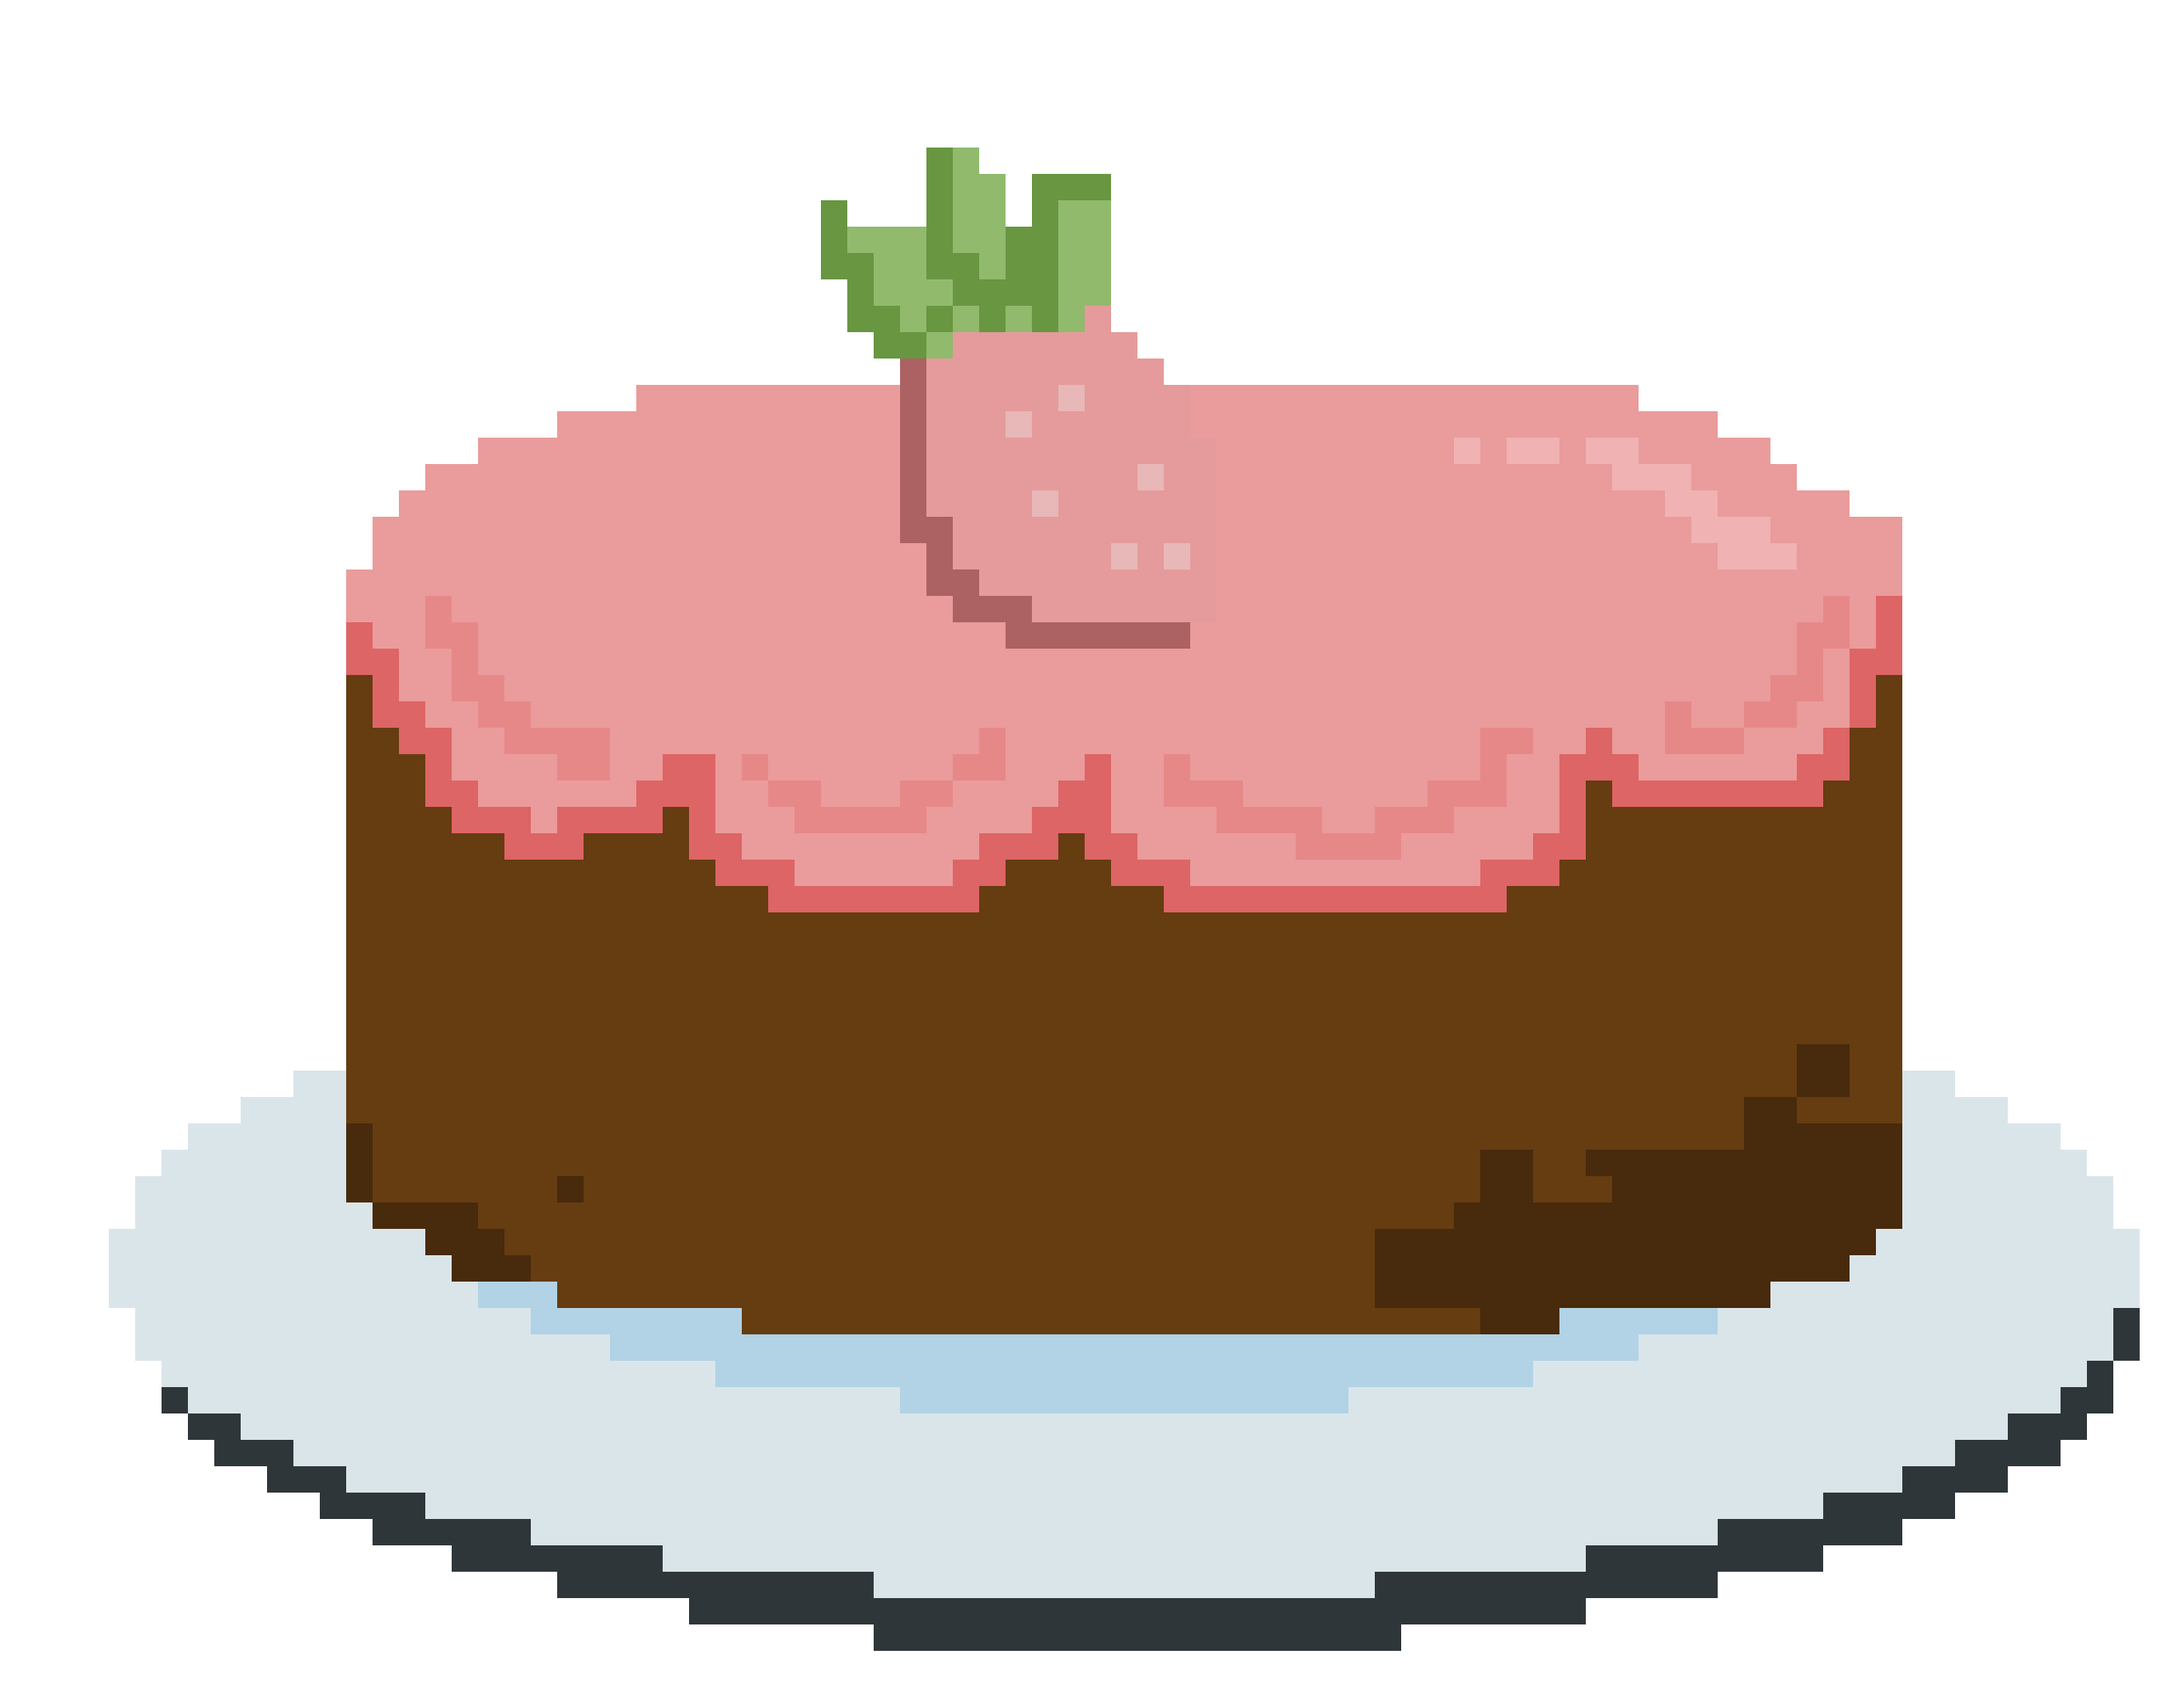
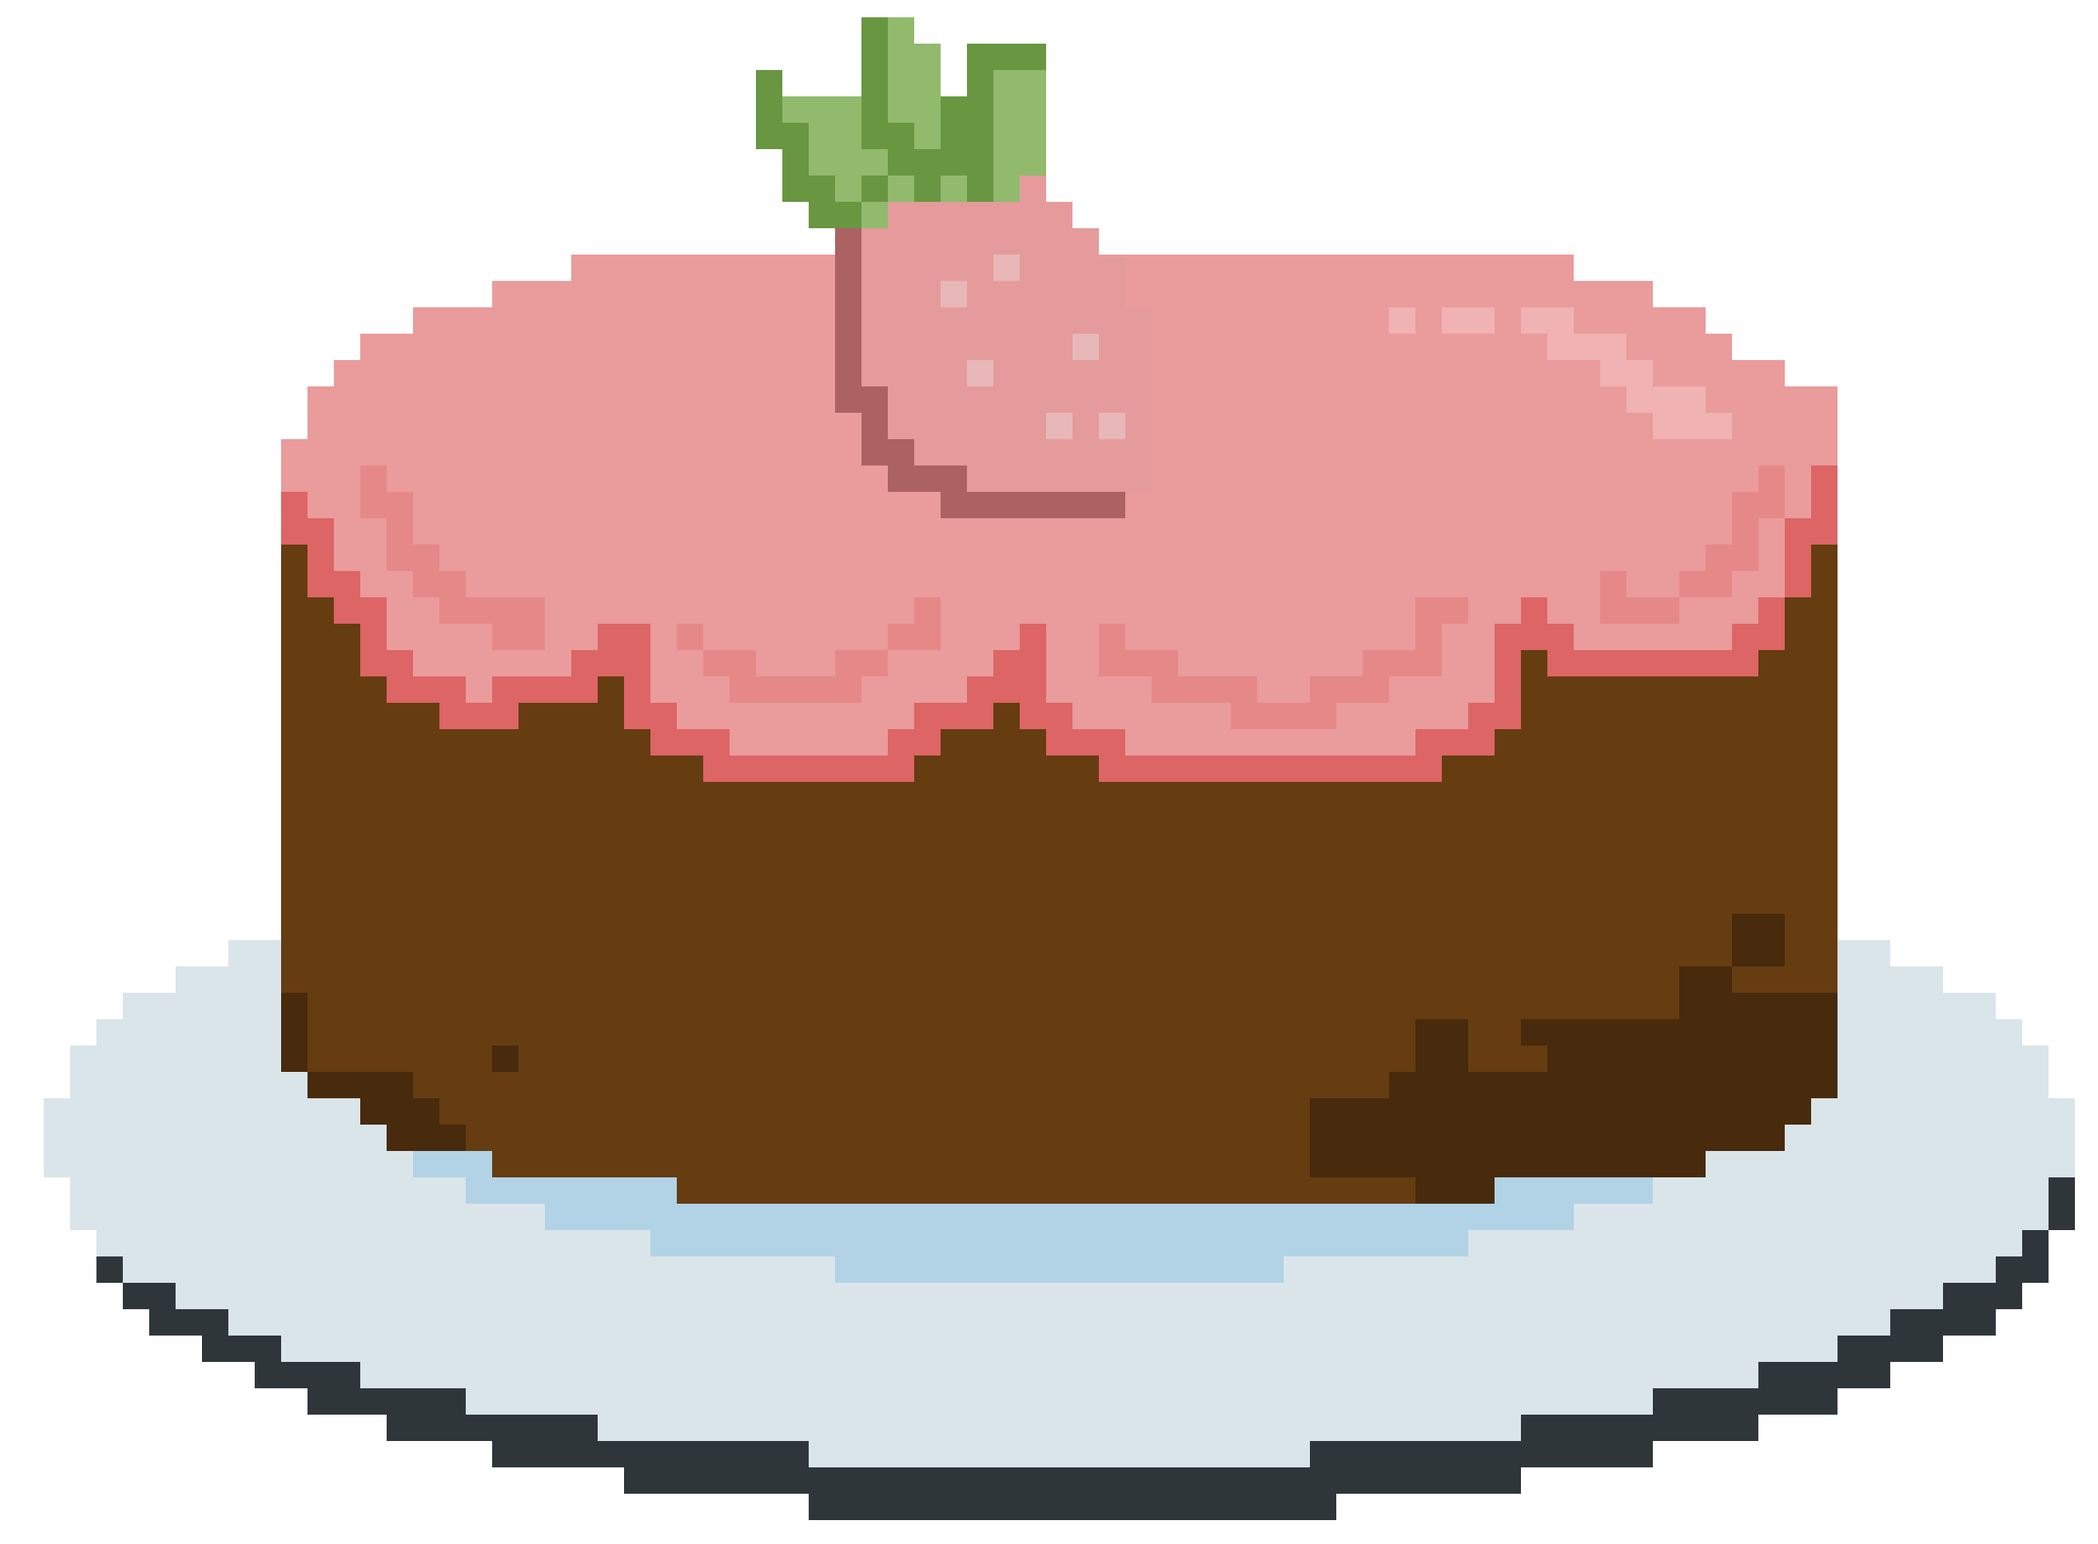
strawberry and candles

Changed region(s): [[0.0, 0.0, 0.9623, 0.9904], [0.9312, 0.6809, 0.9933, 0.8356], [0.9002, 0.8666, 0.9312, 0.8975]]

diff --git a/src/app.js b/src/app.js
@@ -172,8 +172,15 @@ controls.addEventListener('dragend', function (event) {
             console.log(event.object.parent.name);
             scene.state.updateList[0].children[0].scale.set(WIDTH * 0.1, HEIGHT * 0.1, 1);
 
-            if (event.object.parent.name == "candles" || event.object.parent.name == "strawberry") {
-                scene.state.updateList[0].children[0].scale.set(WIDTH*0.1, HEIGHT*0.1 + HEIGHT*0.018, 1);
+            if (event.object.parent.name == "candles") {
+                scene.state.updateList[0].children[0].scale.set(WIDTH*0.1, HEIGHT*0.1 + HEIGHT*0.019, 1);
+                scene.state.updateList[0].children[0].position.y += HEIGHT*0.0075;
+                scene.state.updateList[0].children[0].scale.needsUpdate = true;
+            }
+
+            if (event.object.parent.name == "strawberry") {
+                scene.state.updateList[0].children[0].scale.set(WIDTH*0.1, HEIGHT*0.1 + HEIGHT*0.015, 1);
+                scene.state.updateList[0].children[0].position.y += HEIGHT*0.0095;
                 scene.state.updateList[0].children[0].scale.needsUpdate = true;
             }
             
@@ -565,7 +572,7 @@ function correctOrder(newStepSize) {
             level = 3;
             DEFAULT_STEP_SIZE = 0.0033 * WIDTH;
             playAudio(level_up);
-            scene.showNotification(LEVEL_UP_FILE , 0, 0, WIDTH * 0.5, HEIGHT);
+            scene.showNotification(LEVEL_UP_FILE , 0, 0, WIDTH * 2, HEIGHT);
         }
         else {
             DEFAULT_STEP_SIZE += 0.00048 * WIDTH;

diff --git a/src/components/scenes/KitchenScene.js b/src/components/scenes/KitchenScene.js
@@ -133,7 +133,7 @@ class KitchenScene extends Scene {
                     new_item = new StrawberryFrosting(0.01 * width, -0.275 * height, width, height);
                     break;
                 case ALL_INGREDIENTS[5]:
-                    new_item = new Candles(0.15 * width, -0.2 * height, width, height);
+                    new_item = new Candles(0.138 * width, -0.215 * height, width, height);
                     break;
                 case ALL_INGREDIENTS[6]:
                     new_item = new Sprinkles(0.178 * width, -0.215 * height, width, height);

diff --git a/src/components/objects/Candles/Candles.js b/src/components/objects/Candles/Candles.js
@@ -15,7 +15,7 @@ class Candles extends Group {
         const material = new THREE.SpriteMaterial( { map: map } );
         material.emissive = 0xaaaaaa;
         const sprite = new THREE.Sprite( material );
-        sprite.scale.set( width * 0.04, height * 0.065, 1 );
+        sprite.scale.set( width * 0.025, height * 0.04, 1 );
         sprite.position.z = 0; 
         sprite.position.x = x; 
         sprite.position.y = y;
